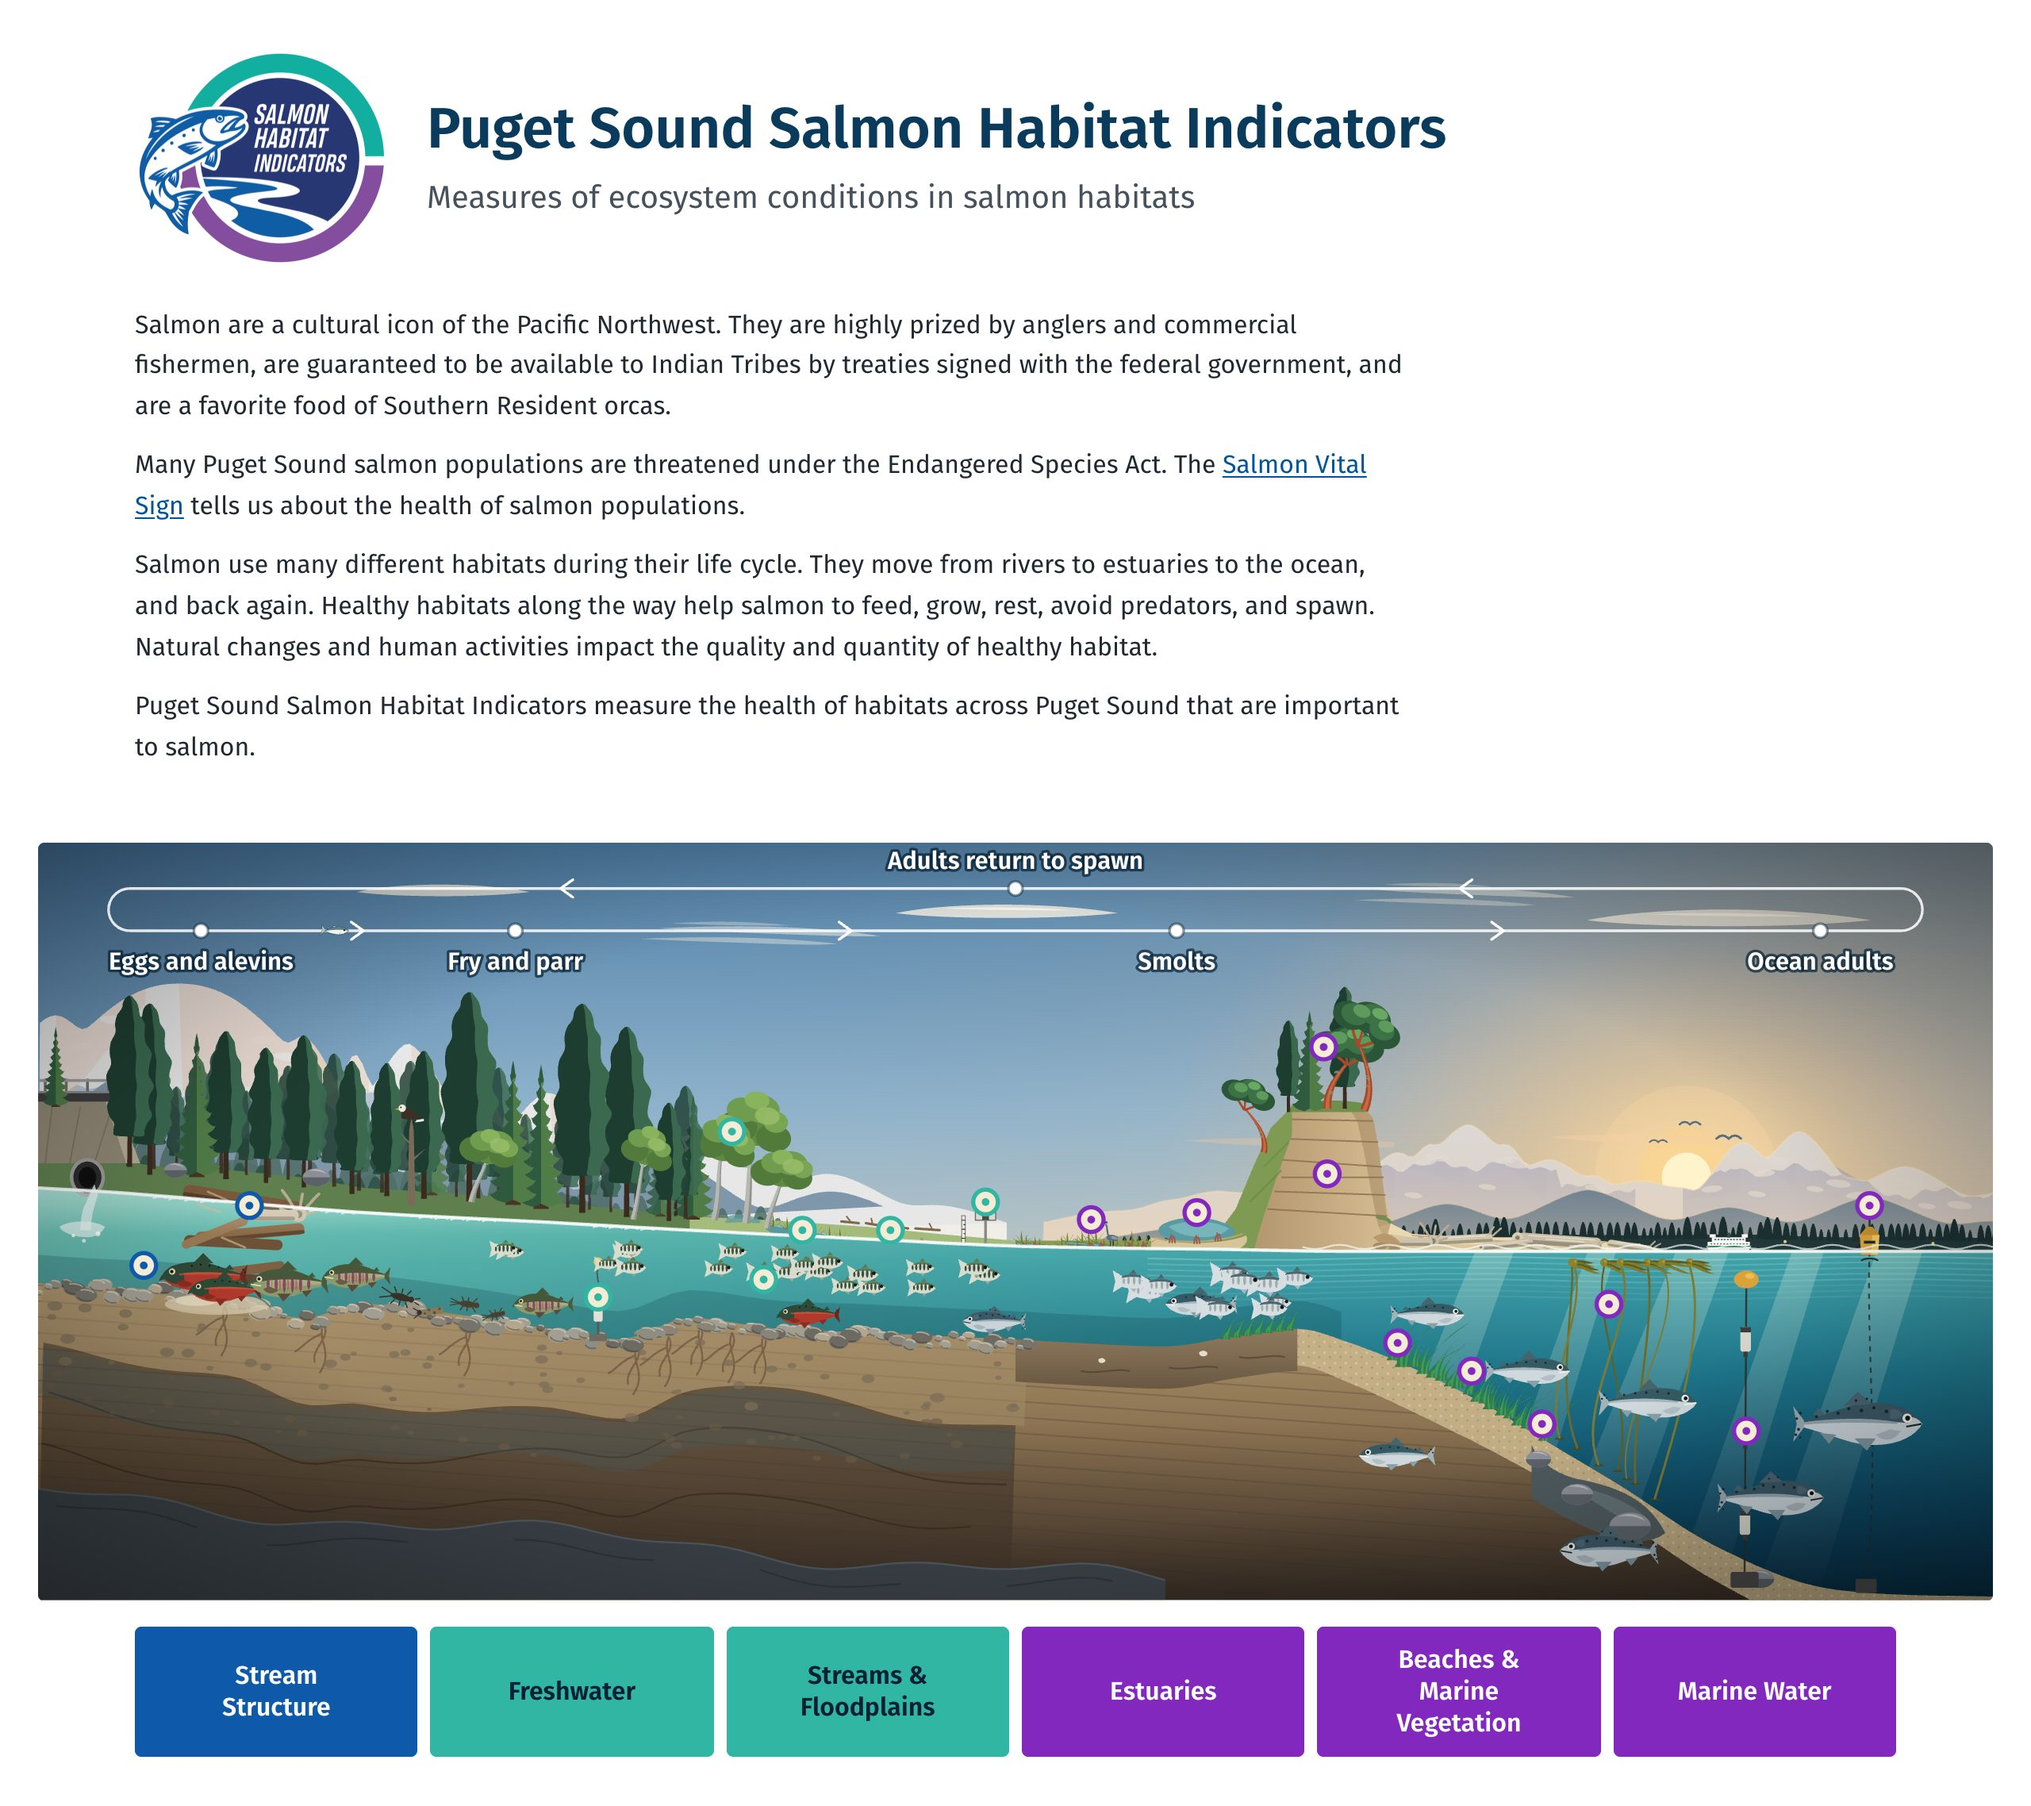
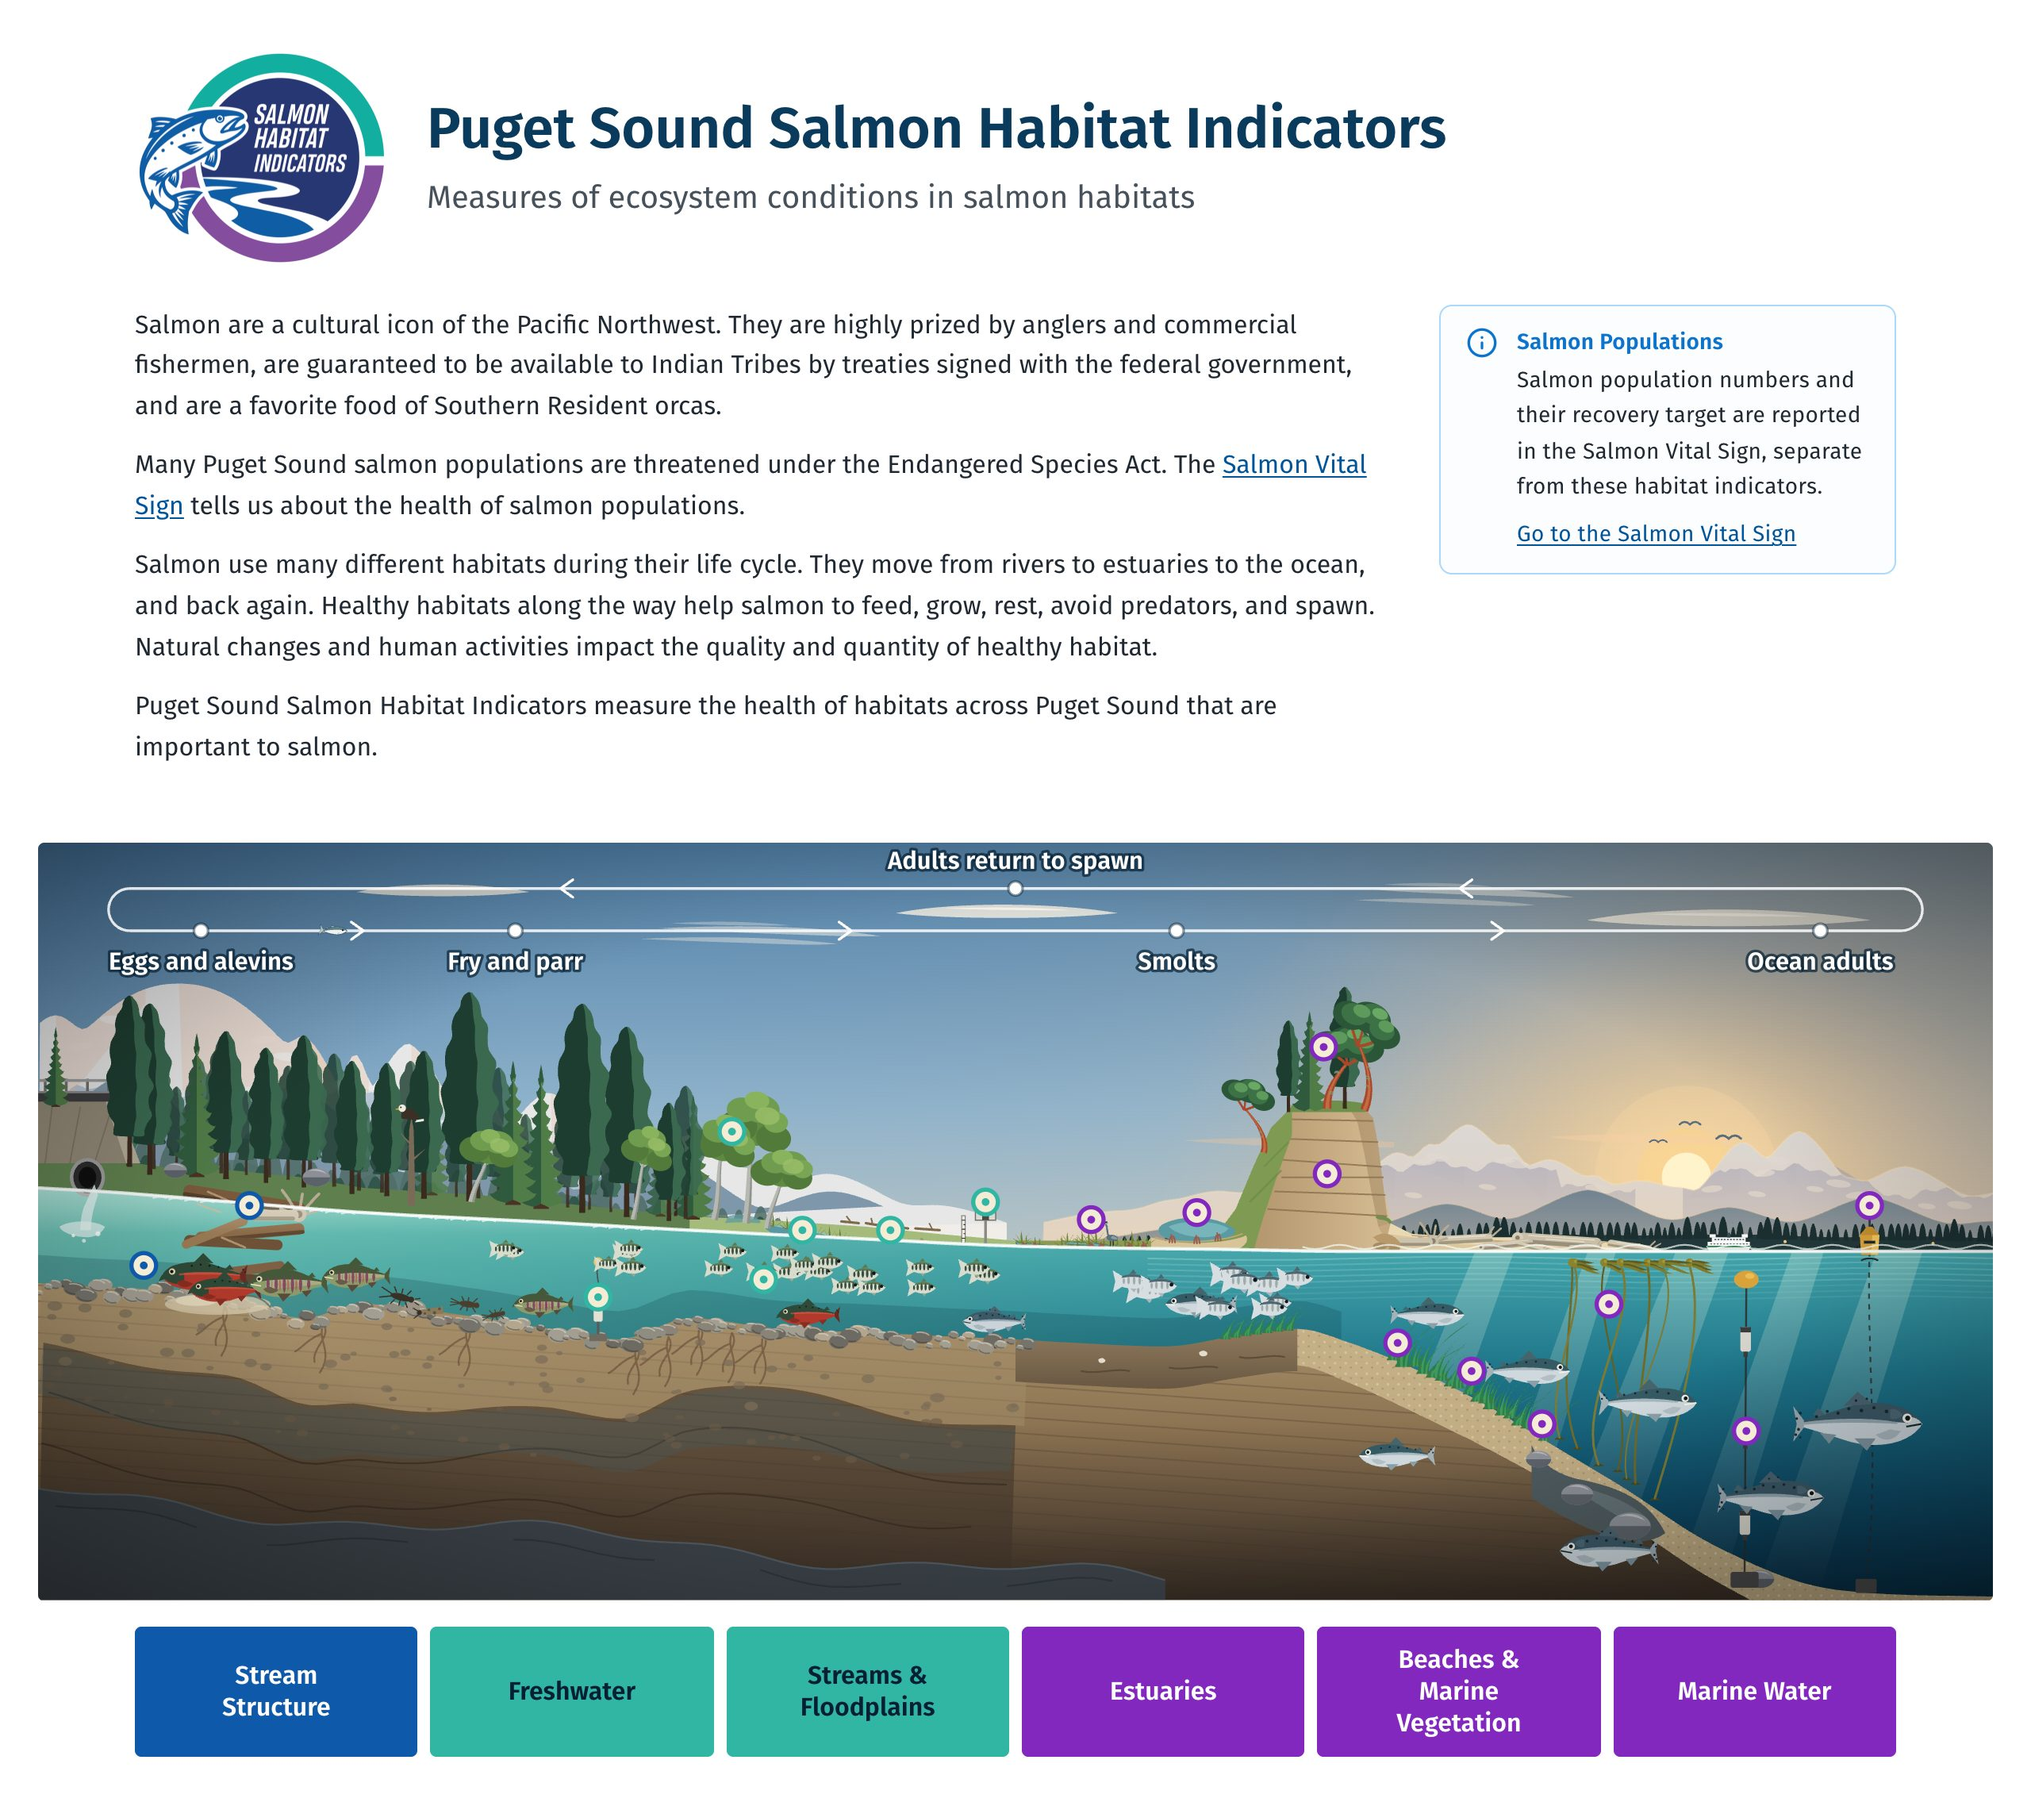
SHI landing: salmon vital sign note in the margin (DELTA-1347)
Visitors take the Salmon Vital Sign for one of the habitat indicators
(PSP, 2026-11-03). A small esa-alert-box note beside the About text says
population numbers and their recovery target live in the vital sign, and
links there. On wide screens it sits in the right margin, so the habitat
graphic doesn't move; on phones it stacks between the title and About.

- PsInfoShiVitalSignNote: esa-alert-box info inside a labelled <aside>
- PsInfoShiHero: optional aside slot
- SHI_VS_NOTE: placeholder copy for PSP to edit
- Manifest lists the PI topic cards (adherence drift on main)
- Epic preview shot refreshed

diff --git a/src/data/pages/salmon-habitat-indicators.ts b/src/data/pages/salmon-habitat-indicators.ts
@@ -668,6 +668,15 @@ export const SHI_ABOUT: ShiTextRun[][] = [
   ['Puget Sound Salmon Habitat Indicators measure the health of habitats across Puget Sound that are important to salmon.'],
 ];
 
+/** Margin note beside the About text: visitors take the salmon vital sign
+ *  (population numbers and their recovery target) for one of these habitat
+ *  indicators (PSP, 2026-11-03). Placeholder wording; PSP will edit it. */
+export const SHI_VS_NOTE = {
+  title: 'Salmon Populations',
+  text: 'Salmon population numbers and their recovery target are reported in the Salmon Vital Sign, separate from these habitat indicators.',
+  link: { text: 'Go to the Salmon Vital Sign', href: SALMON_VS_HREF },
+};
+
 /** Under the indicator table, ahead of the related Progress Indicators. */
 export const SHI_HABITAT_USE =
   'Throughout their life cycle, salmon depend on a wide variety of freshwater, estuary, nearshore, and marine habitats. This leaves salmon vulnerable to many forms of human activities.';
